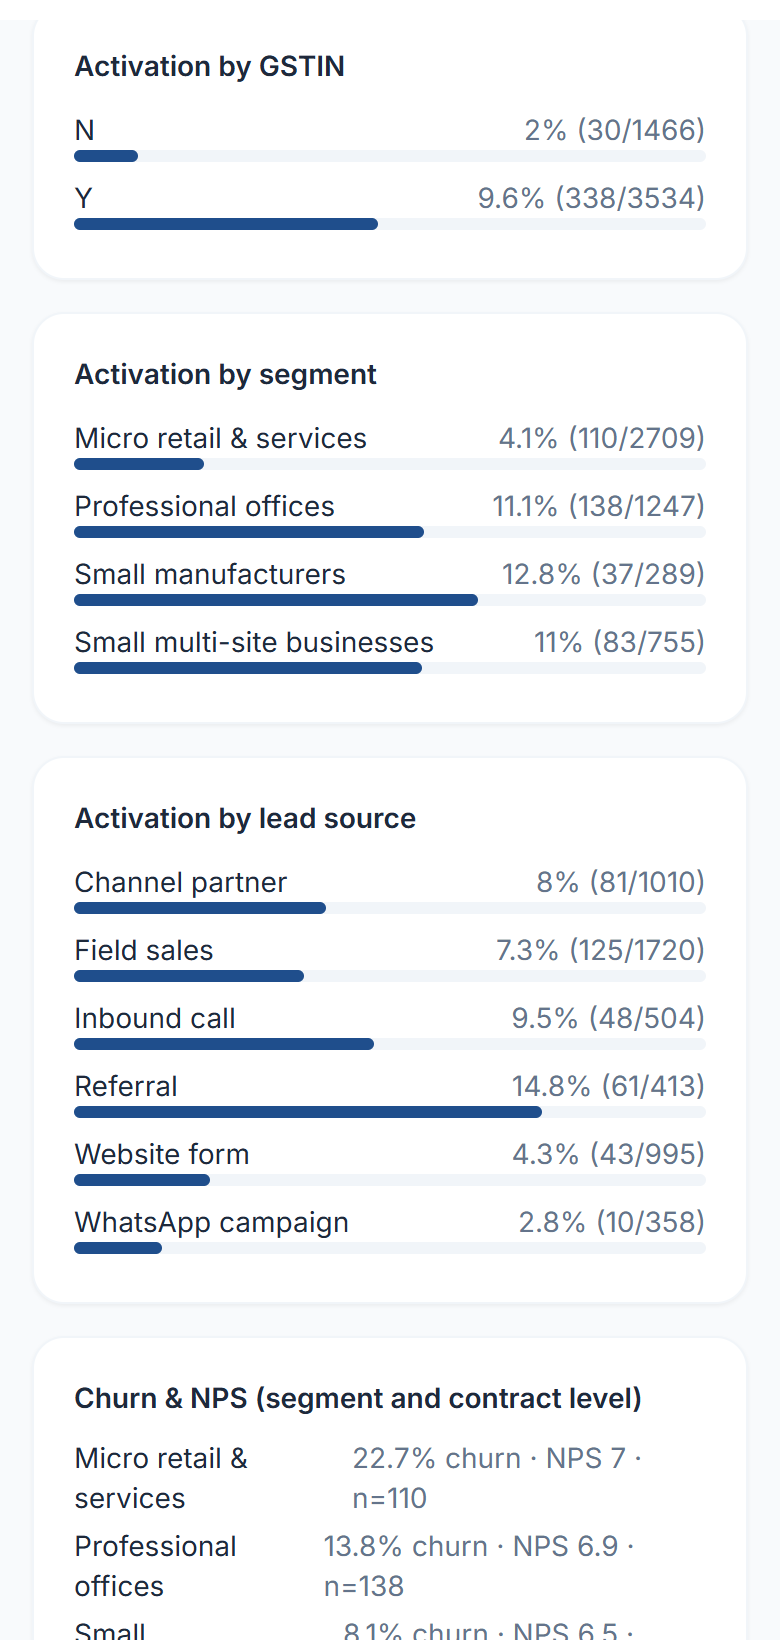
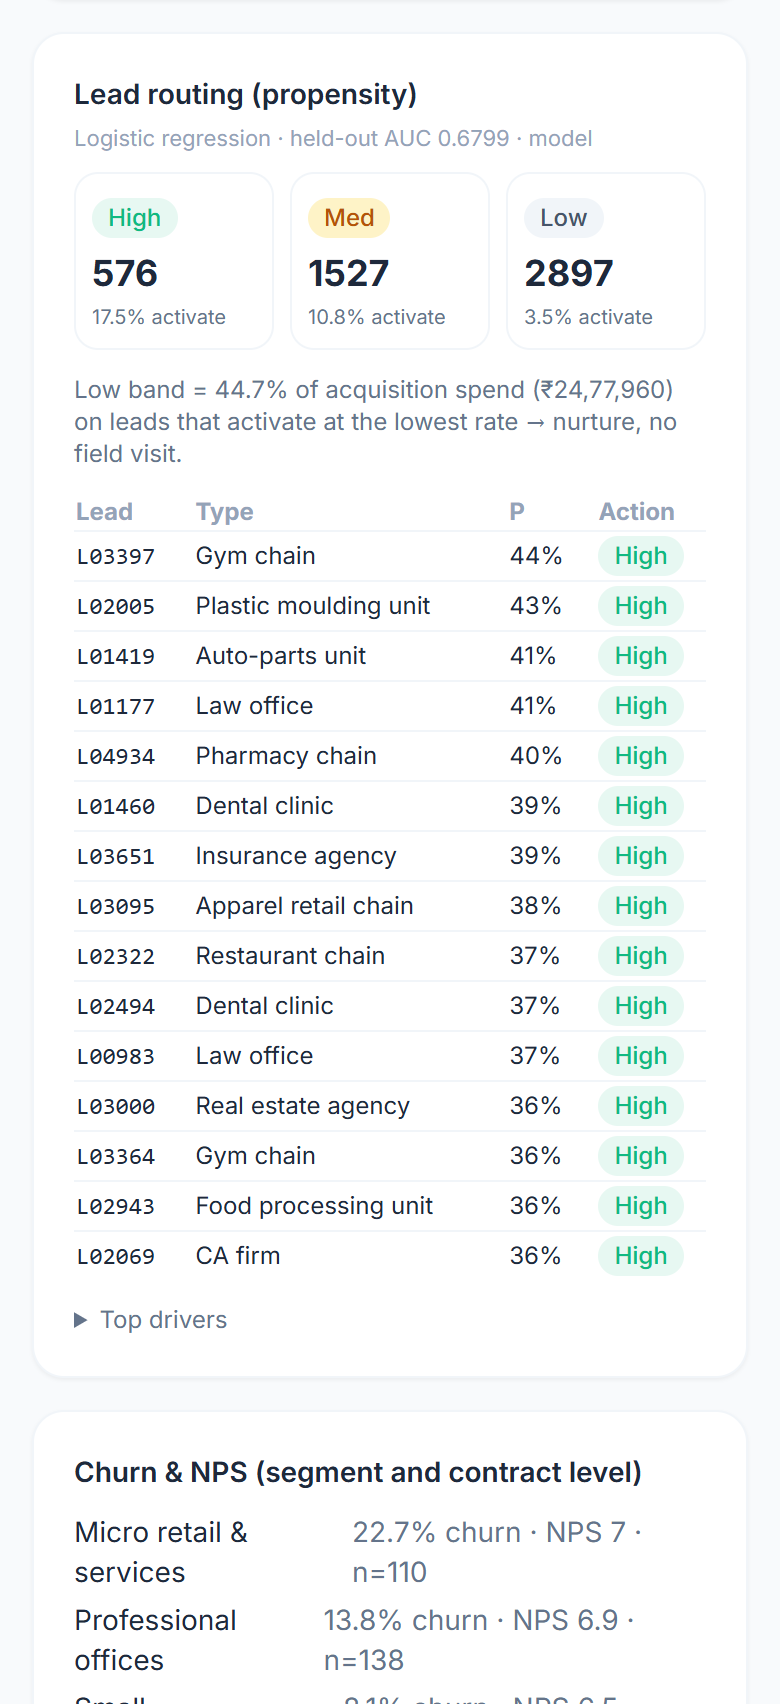
README: add overview and feature summary, retake dashboard screenshots with propensity routing

diff --git a/udyam-digital/README.md b/udyam-digital/README.md
@@ -1,10 +1,62 @@
 # Project Udyam Digital - prototype
 
 A digital-first, phone-first, bilingual (English / Hindi) journey that takes a small
-business from "who are you?" to an activated bundle in one sitting: GSTIN-first
-onboarding, an advisor that recommends a bundle, a transparent quote, document OCR
-KYC under DPDP-style consent, and an order tracker. A back-office dashboard shows the
-business case. Fictional brand "Accel Business"; **all data is synthetic**.
+business from "who are you?" to an activated bundle in one sitting. Fictional brand
+"Accel Business"; **all data is synthetic**.
+
+## What it does
+
+Accel Business sells telecom and cloud to large accounts but barely reaches India's
+60M+ MSMEs, where the old field-sales journey is too slow and too manual to be worth it.
+Udyam Digital is a self-serve journey a shop owner can finish on their phone in one sitting:
+
+1. **Onboarding** - they enter their GSTIN once; the business name, address, segment and
+   team size autofill from the registries.
+2. **Advisor** - a few plain questions produce a recommended bundle (a *Value* and a *Lite*
+   option) with reasons, in English or Hindi.
+3. **Quote** - a transparent price with add-on toggles, dependencies and the saving vs today.
+4. **Smart KYC** - documents are read by OCR and checked against the registries, straight
+   through where they pass.
+5. **Tracker** - a self-serve view of activation stages, so there are no chase calls.
+
+A back-office dashboard turns the same data into the business case: funnel, propensity bands,
+churn / NPS and the metrics that move.
+
+**What makes it hard to copy**
+
+- **GSTIN-first onboarding** - one identifier fills the profile and infers the segment, so the owner barely types.
+- **Guardrailed advisor** - the LLM suggests and explains, but the rules engine decides; every bundle is re-validated server-side, so it cannot mis-sell.
+- **Straight-through KYC** - OCR plus registry and 3-way checks; unreadable or mismatched documents go to review, never a false reject.
+- **Propensity routing** - a score decides who self-serves end to end and who gets a warm, human nudge.
+- **DPDP by design** - consent before any KYC, masked identifiers, withdrawal, and a 180-day purge.
+
+## Screens
+
+A phone-first journey from "who are you?" to an activated bundle, plus a back-office dashboard for the business case.
+
+<table>
+  <tr>
+    <td align="center" width="33%" valign="top"><img src="assets/images/00_onboarding_autofill.png" width="240"><br><sub><b>Onboarding</b><br>Enter the GSTIN once and the business name, address, segment and team size autofill from the registries.</sub></td>
+    <td align="center" width="33%" valign="top"><img src="assets/images/01_advisor.png" width="240"><br><sub><b>Advisor</b><br>A few plain questions produce a Value and a Lite bundle with reasons; it only ever recommends eligible options.</sub></td>
+    <td align="center" width="33%" valign="top"><img src="assets/images/02_quote.png" width="240"><br><sub><b>Quote</b><br>Live add-on toggles and dependencies, with the monthly total and the saving against what they pay today.</sub></td>
+  </tr>
+  <tr>
+    <td align="center" width="33%" valign="top"><img src="assets/images/03_smart_kyc.png" width="240"><br><sub><b>Smart KYC</b><br>Documents are read by OCR and checked against the registries; clean ones pass straight through, edge cases go to review.</sub></td>
+    <td align="center" width="33%" valign="top"><img src="assets/images/04_tracker.png" width="240"><br><sub><b>Tracker</b><br>Activation stages with a date each and an expected go-live, so the owner never has to chase for status.</sub></td>
+    <td align="center" width="33%" valign="top"><img src="assets/images/05_consent_notice.png" width="240"><br><sub><b>Consent</b><br>A plain-language DPDP consent notice appears before any document is collected, and can be withdrawn later.</sub></td>
+  </tr>
+</table>
+
+### Back-office dashboard
+
+<table>
+  <tr>
+    <td align="center" width="50%"><img src="assets/images/06_insights_top.png" width="260"><br><sub><b>Business case</b><br>Success metrics and funnel</sub></td>
+    <td align="center" width="50%"><img src="assets/images/06_insights_more.png" width="260"><br><sub><b>Lead routing</b><br>Propensity bands, then churn / NPS</sub></td>
+  </tr>
+</table>
+
+<sub>The success metrics against their baselines, the funnel, lead routing by propensity band, and churn / NPS: the business case, live from the data.</sub>
 
 ## Architecture
 
@@ -15,34 +67,6 @@ the eligible product set and bundle prices, and the advisor is handed those pref
 LLM makes a single call (or is skipped for the instant rules fallback). Whatever the model
 returns is re-validated server-side, so an ineligible bundle can never reach the client.
 Reference data is loaded in memory at startup; only orders and consent are written, to PostgreSQL.
-
-## Screens
-
-A phone-first journey from "who are you?" to an activated bundle, plus a back-office dashboard for the business case.
-
-<table>
-  <tr>
-    <td align="center" width="33%"><img src="assets/images/00_onboarding_autofill.png" width="240"><br><sub><b>Onboarding</b><br>GSTIN-first autofill</sub></td>
-    <td align="center" width="33%"><img src="assets/images/01_advisor.png" width="240"><br><sub><b>Advisor</b><br>Guardrailed bundle advice</sub></td>
-    <td align="center" width="33%"><img src="assets/images/02_quote.png" width="240"><br><sub><b>Quote</b><br>Transparent price &amp; saving</sub></td>
-  </tr>
-  <tr>
-    <td align="center" width="33%"><img src="assets/images/03_smart_kyc.png" width="240"><br><sub><b>Smart KYC</b><br>OCR + registry, straight-through</sub></td>
-    <td align="center" width="33%"><img src="assets/images/04_tracker.png" width="240"><br><sub><b>Tracker</b><br>Self-serve order status</sub></td>
-    <td align="center" width="33%"><img src="assets/images/05_consent_notice.png" width="240"><br><sub><b>Consent</b><br>DPDP notice before any KYC</sub></td>
-  </tr>
-</table>
-
-### Back-office dashboard
-
-<table>
-  <tr>
-    <td align="center" width="50%"><img src="assets/images/06_insights_top.png" width="260"><br><sub><b>Business case</b><br>Success metrics and funnel</sub></td>
-    <td align="center" width="50%"><img src="assets/images/06_insights_more.png" width="260"><br><sub><b>Where it is won or lost</b><br>Activation cuts, churn / NPS</sub></td>
-  </tr>
-</table>
-
-<sub>The success metrics against their baselines, the funnel, activation by GSTIN / segment / lead source, and churn / NPS: the business case, live from the data.</sub>
 
 ## Prerequisites
 - Python 3.10+ and Node 18+
